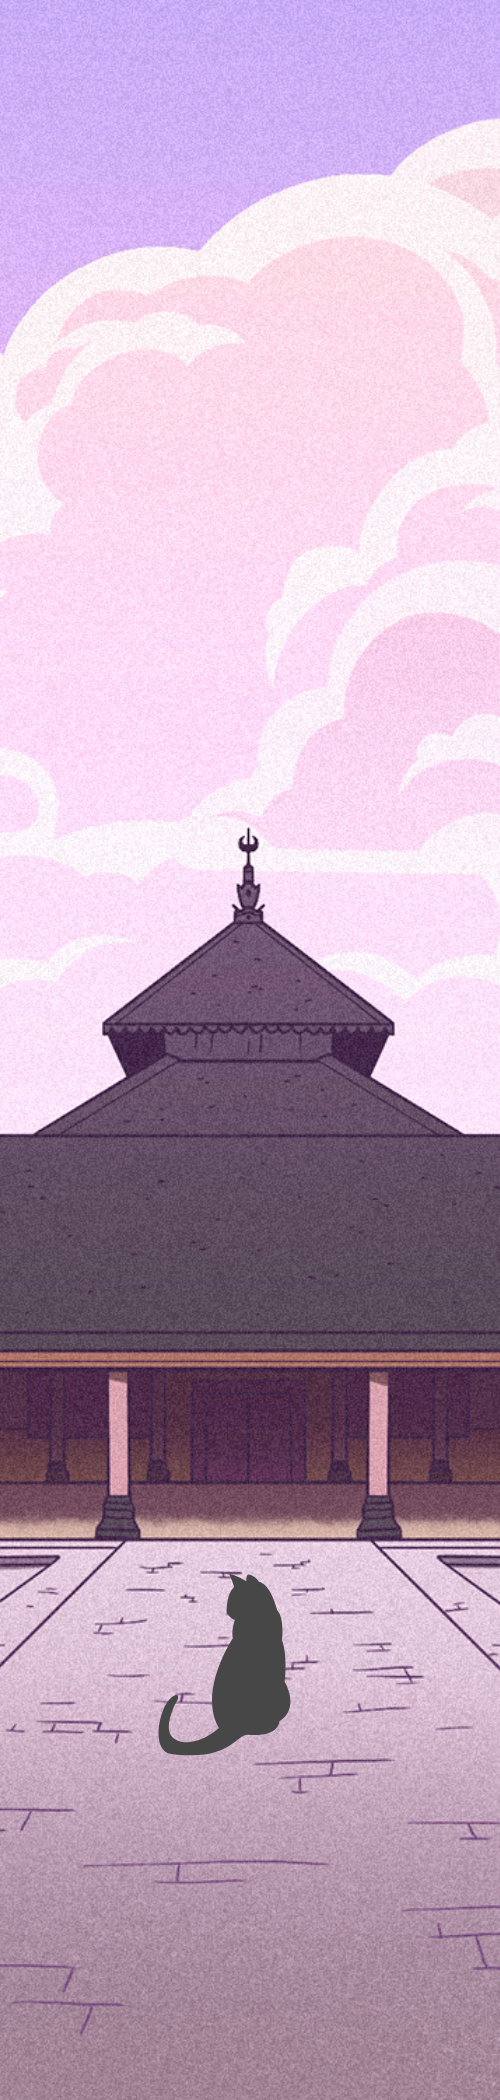
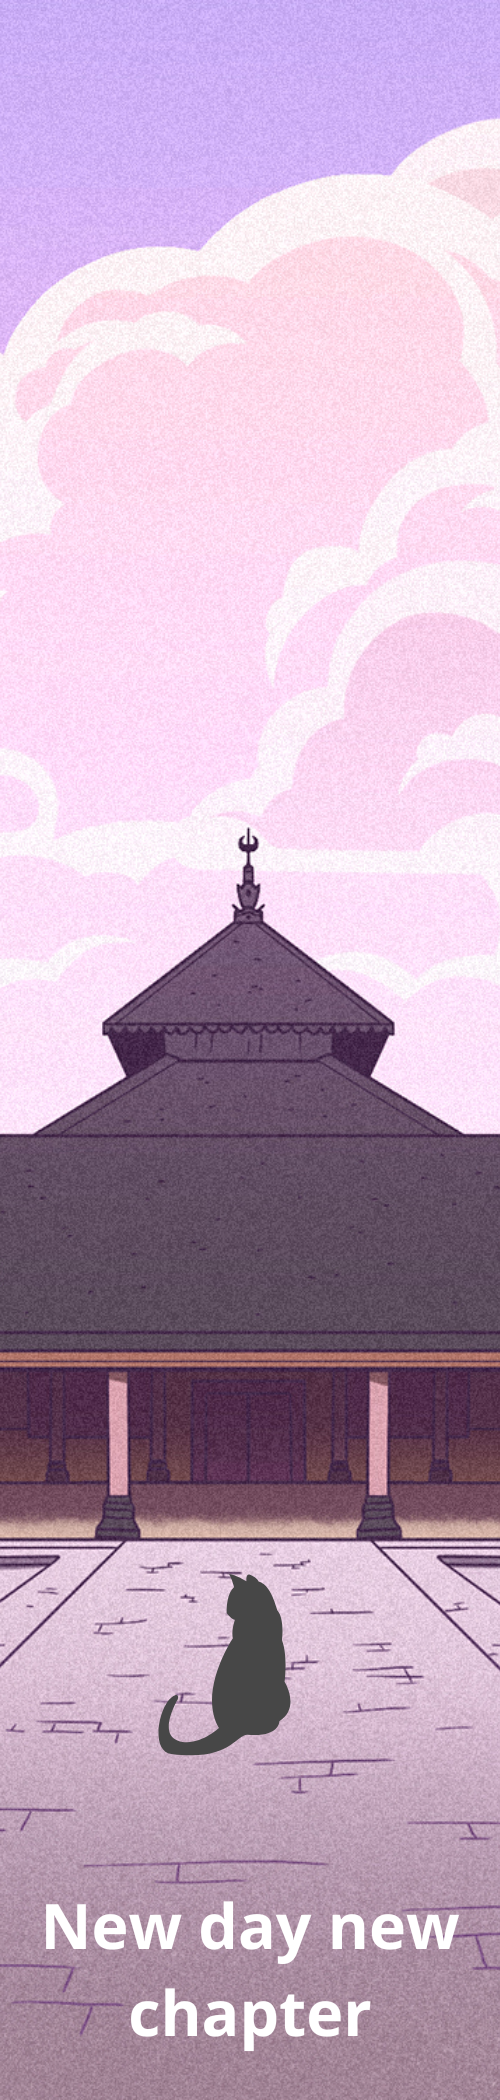
add new bookmarks

Changed region(s): [[0.09, 0.8976, 0.93, 0.9905]]

diff --git a/index.html b/index.html
@@ -41,6 +41,8 @@
         <img src="./bookmarks-img/3.png" alt="">
         <img src="./bookmarks-img/4.png" alt="">
         <img src="./bookmarks-img/5.png" alt="">
+        <img src="./bookmarks-img/6.png" alt="">
+        <img src="./bookmarks-img/7.png" alt="">
 
         <img src="./bookmarks-img/amazing/1.png" alt="">
         <img src="./bookmarks-img/amazing/2.png" alt="">
